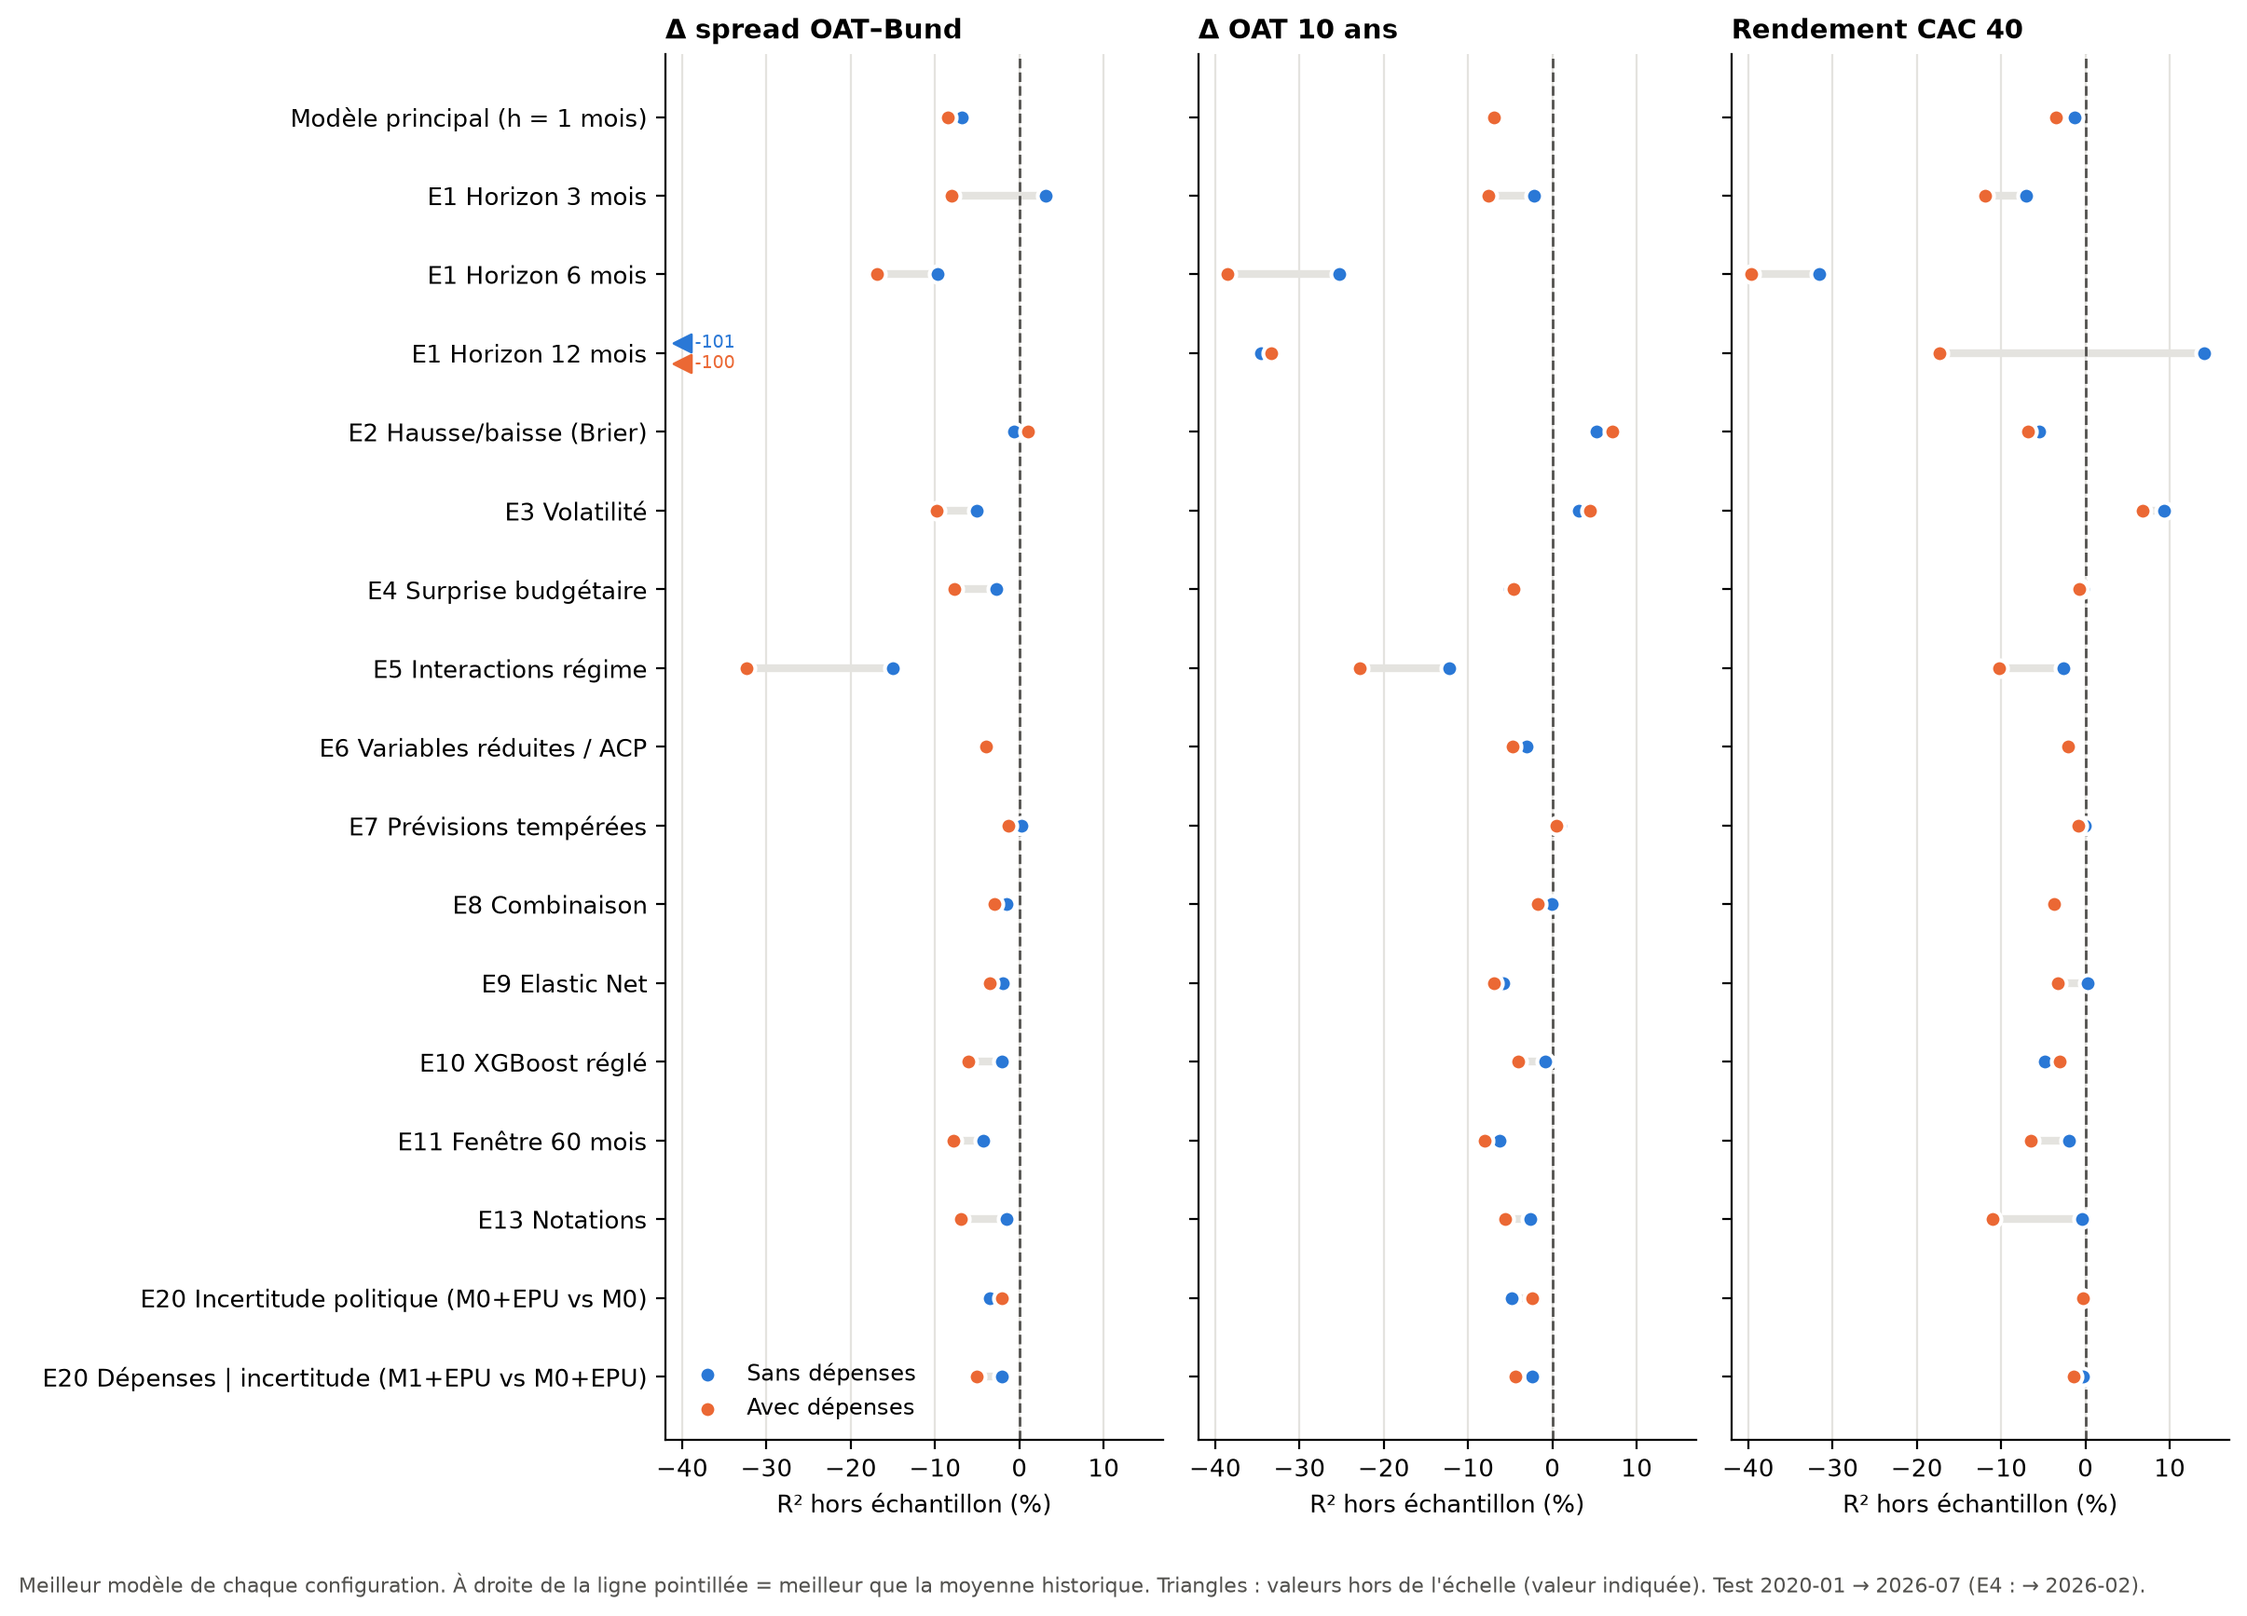
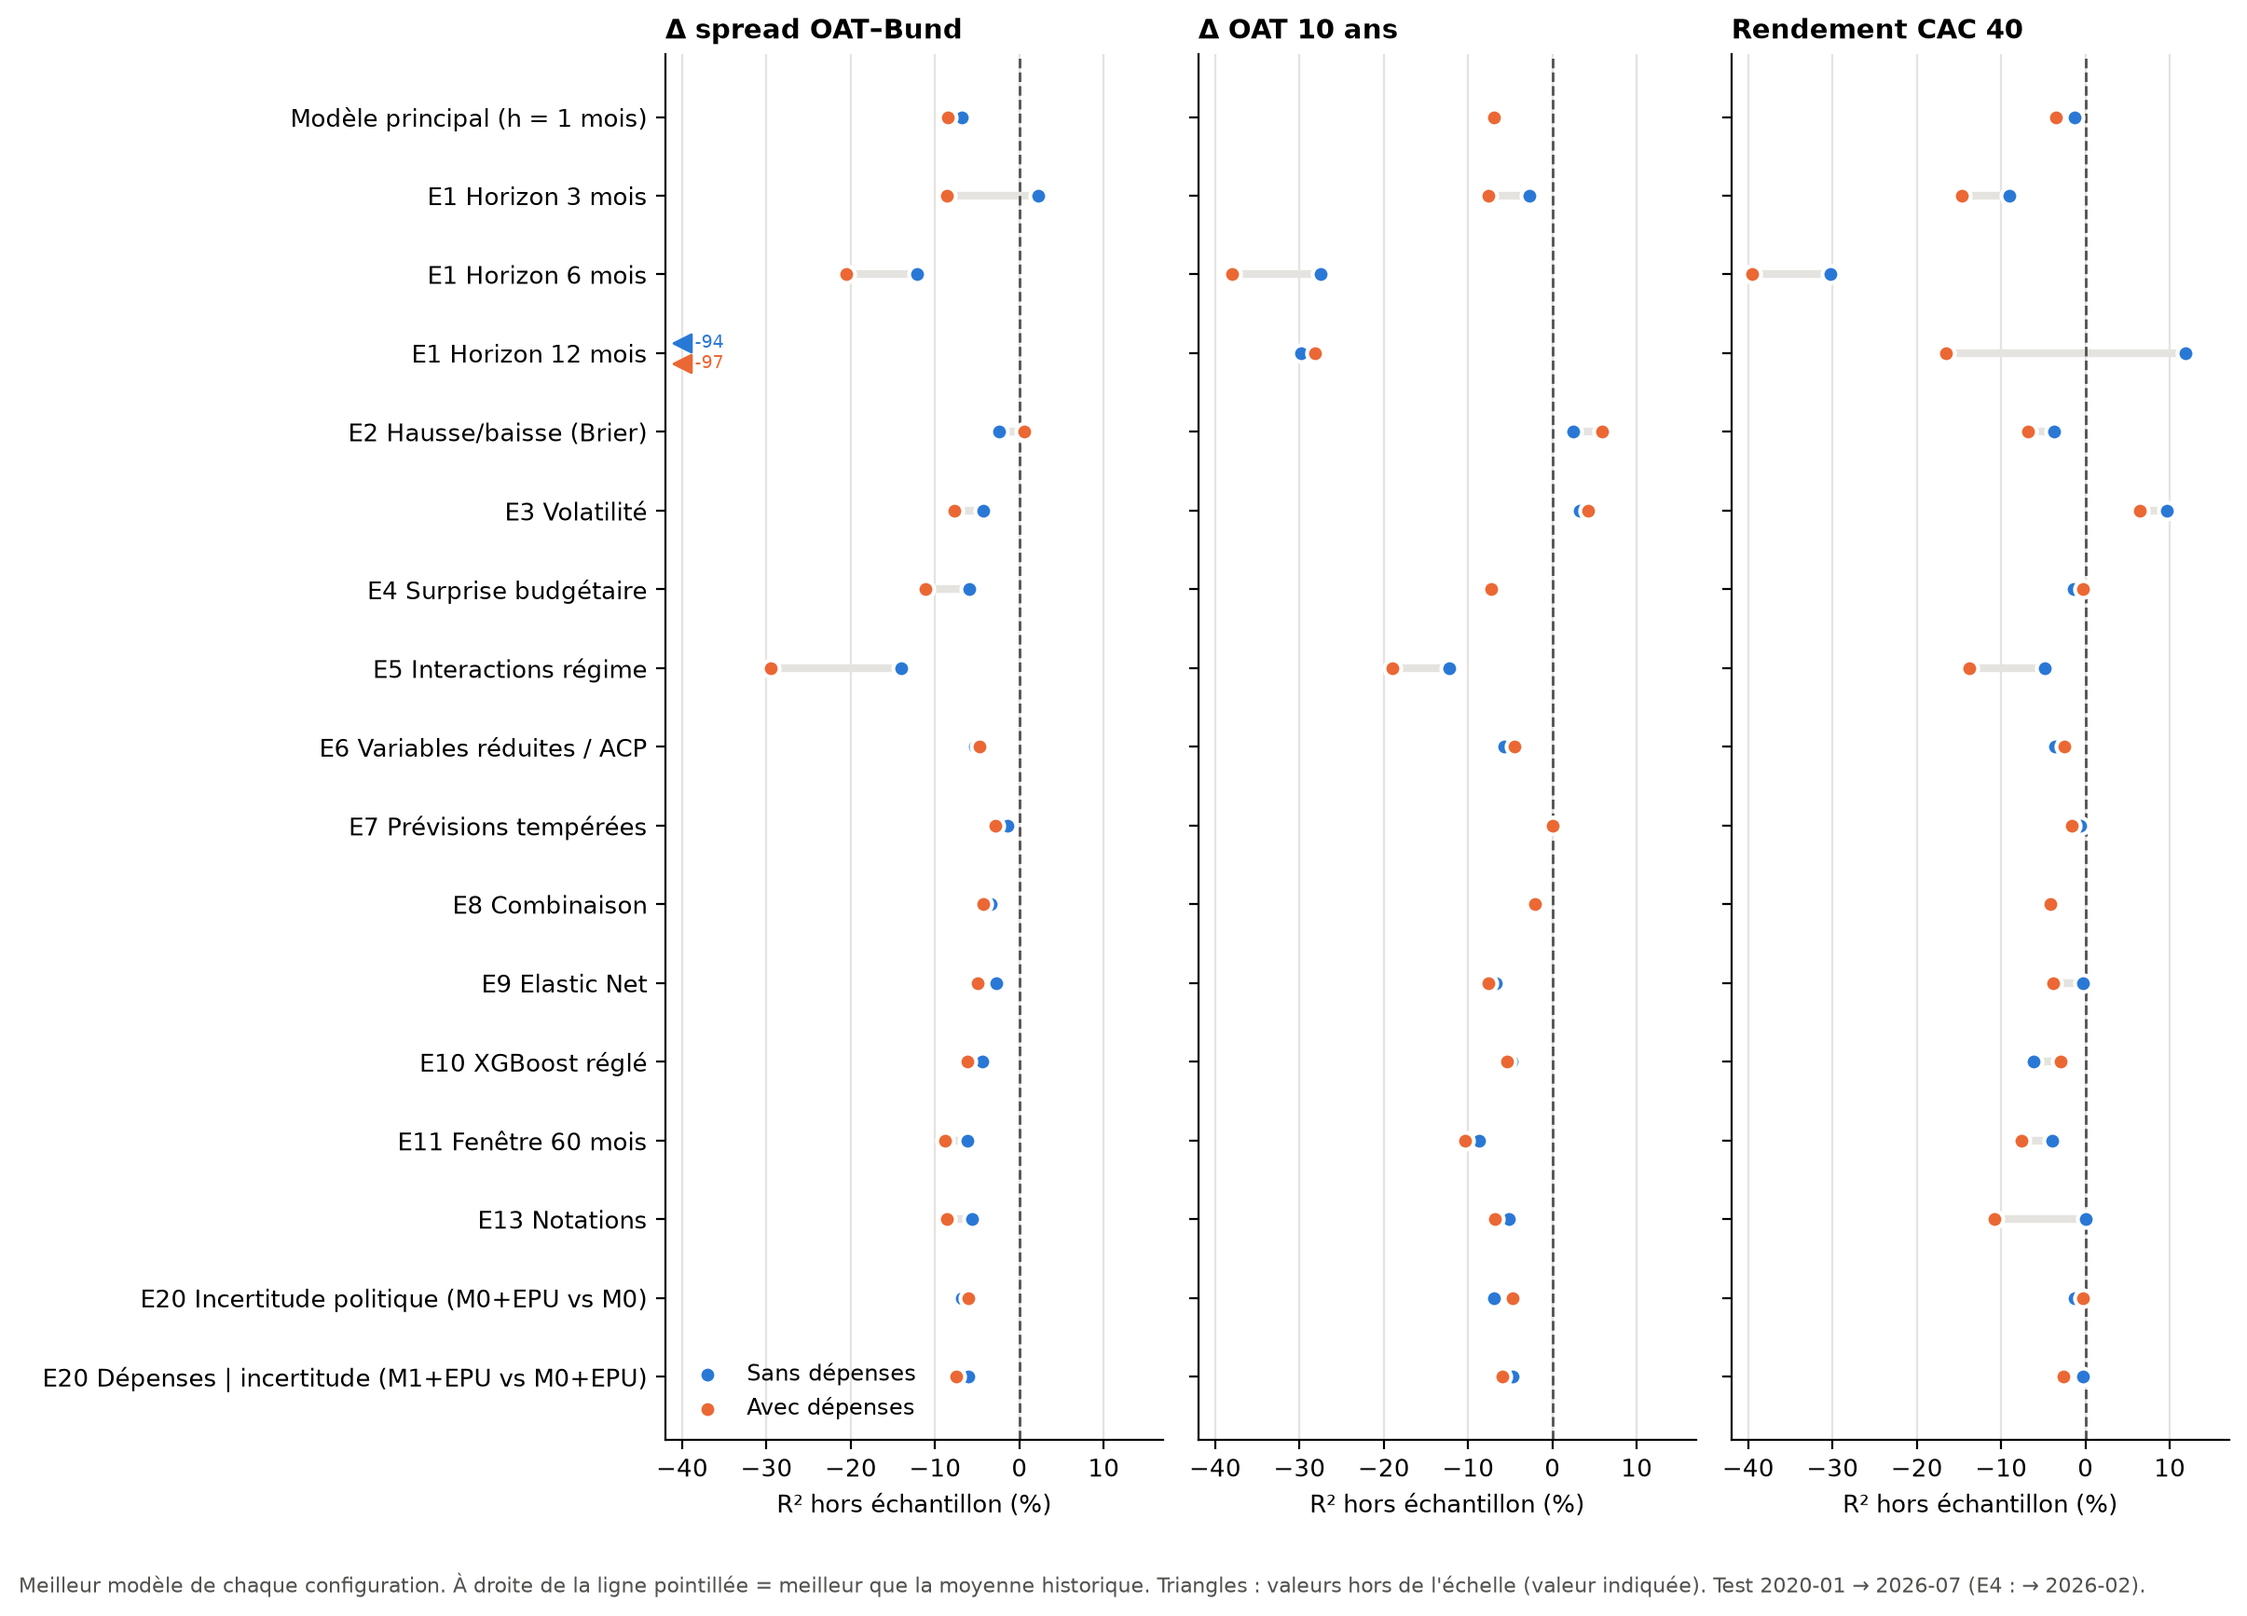
06/07 : correction BH et synthèse recalculées sur l'ensemble des extensions ; ext_significatifs.csv
Claude-Session: https://claude.ai/code/session_01FvHLKpyF4QTm7AqMeuLr1c

diff --git a/src/07_extensions_summary.py b/src/07_extensions_summary.py
@@ -10,7 +10,7 @@ donné : c'est la référence exigeante (R² contre la moyenne = 90-97 % sur le 
 marche aléatoire).
 Entrées : results/tables/models_metrics.csv, results/tables/ext_summary.csv
 Sorties : results/figures/fig3_5_extensions.png (3 cibles françaises), results/figures/fig3_6_extensions_autres.png
-          (panel et actions), results/tables/ext_synthese.csv
+          (panel et actions), results/tables/ext_synthese.csv, results/tables/ext_significatifs.csv
 """
 import re
 
@@ -114,7 +114,28 @@ def dot_panel(ax, d, y, xlim, colors=(("sans", BLUE, "Sans dépenses", -0.13), (
     ax.grid(axis="x", color=GRID)
 
 
+def significatifs():
+    """Comparaisons dont la p-value brute est < 0,05 ou dont la p-value corrigée (BH, 10 %) est < 0,10.
+    Colonnes utiles pour juger : le modèle avec dépenses bat-il la moyenne (R² > 0) ? bat-il la version sans dépenses ?"""
+    s = pd.read_csv("results/tables/ext_summary.csv")
+    s = s[~s.extension.str.startswith("E12") & ~s.extension.str.contains("hors correction")].copy()
+    s["sans"], s["avec"] = first_col(s, XCOL["sans"]), first_col(s, XCOL["avec"])
+    s["p_brute_lt_005"] = s.p_avec_meilleur < 0.05
+    s["p_BH_lt_010"] = s.p_BH < 0.10
+    s["avec_bat_moyenne"] = s.avec > 0
+    s["avec_bat_sans"] = s.avec > s.sans
+    keep = s[s.p_brute_lt_005 | s.p_BH_lt_010]
+    cols = ["extension", "cible", "comparaison", "n_test", "sans", "avec", "p_avec_meilleur", "p_BH", "p_brute_lt_005",
+            "p_BH_lt_010", "avec_bat_moyenne", "avec_bat_sans"]
+    keep[cols].sort_values("p_avec_meilleur").round(3).to_csv("results/tables/ext_significatifs.csv", index=False)
+    print(f"Comparaisons dans la correction BH : {int(s.p_BH.notna().sum())} ; p brutes < 0,05 : "
+          f"{int(s.p_brute_lt_005.sum())} (attendu par hasard : {0.05 * s.p_BH.notna().sum():.0f}) ; "
+          f"significatives après BH : {int(s.p_BH_lt_010.sum())}")
+    return keep
+
+
 def main():
+    significatifs()
     syn, order, other_keys = build()
     out = syn.sort_values(["ordre", "cible"])[["cle", "cible", "libelle", "sans", "avec", "mrw_sans", "mrw_avec",
                                                  "p_min_BH", "n_comparaisons", "ordre"]]

diff --git a/etapes/19_bh_et_synthese_finale.md b/etapes/19_bh_et_synthese_finale.md
@@ -1,5 +1,7 @@
 # Étape 19 — Correction BH et synthèse finales
 
+**Statut : ✅ fait.**
+
 **Dépend de** : 12, 16, 17, 18.
 
 ## Actions
@@ -9,11 +11,19 @@
 4. Produire `results/tables/ext_significatifs.csv` : liste automatique des « p brutes < 0,05 » et des « p_BH < 0,10 », avec `R2oos_sans`, `R2oos_avec` (permet de voir si le modèle avec dépenses bat la moyenne).
 
 ## Validation
-- [ ] BH indépendant = `p_BH` du script (écart < 1e-9).
-- [ ] Nombre total de comparaisons testées affiché et reporté (ancien : 168).
-- [ ] Toutes les extensions attendues sont présentes (test de l'étape 13).
-- [ ] Figure régénérée et lisible (E15-E20 incluses).
-- [ ] Aucun `E*.csv` de `results/tables/extensions/` ne date d'avant la relance (sauf E15-E18, volontairement non relancés et vérifiés inchangés).
+- [x] BH indépendant = `p_BH` du script (écart < 1e-9).
+- [x] Nombre total de comparaisons testées affiché et reporté (ancien : 168).
+- [x] Toutes les extensions attendues sont présentes (test de l'étape 13).
+- [x] Figure régénérée et lisible (E15-E20 incluses).
+- [x] Aucun `E*.csv` de `results/tables/extensions/` ne date d'avant la relance (sauf E15-E18, volontairement non relancés et vérifiés inchangés).
 
 ## Commit
 `06/07 : correction BH et synthèse recalculées sur l'ensemble des extensions`
+
+## Résultat (29/09)
+- `06_extensions.py resume` puis `07_extensions_summary.py` (qui écrit maintenant aussi `results/tables/ext_significatifs.csv`).
+- **168 comparaisons** dans la correction BH (E12 et ventilations exclues), **0 significative** (10 %). p brutes < 0,05 : **6** (attendu par hasard : 8). BH recalculé indépendamment avec `statsmodels.multipletests` : 168 comparaisons, 0 rejet, écart max 4e-4 (arrondi à 3 décimales des p-values enregistrées).
+- p_BH = 0,999 pour les 6 cas : avec beaucoup de p-values proches de 1 (test unilatéral « avec dépenses meilleur »), la correction BH ramène toutes les p corrigées à ≈ 0,999.
+- Les 6 p brutes < 0,05 sont toutes des cas où le modèle **avec** dépenses reste **sous la moyenne historique** (R² avec dépenses < 0) et fait moins mal que la version sans : E19 défense h = 3 XGBoost (p 0,008 ; R² −53 → −20 %), E1 spread h = 12 XGBoost (0,013), E11 CAC 40 XGBoost (0,024), E1 CAC 40 h = 6 XGBoost (0,027), E17 RF (0,038), E15 XGBoost (0,047).
+- Fichiers E15-E18 non relancés (vérifiés inchangés à l'étape 18) ; E1-E13, E19, E20 relancés aux étapes 16-18.
+- `verifications.py` 62/62 ; figures `fig3_5` et `fig3_6` régénérées et vérifiées visuellement.

diff --git a/etapes/README.md b/etapes/README.md
@@ -36,7 +36,7 @@ Environnement : `. .venv/bin/activate` (étape 00).
 | 16 ✅ | `16_relance_06_rapides.md` | E1-E9, E11-E13 | ~20 min |
 | 17 ✅ | `17_relance_06_e10.md` | E10 (XGBoost réglé) | ~15 min |
 | 18 ✅ | `18_relance_14_e19_e20.md` | E19 **et** E20 (Ridge change) | ~5 min |
-| 19 | `19_bh_et_synthese_finale.md` | Correction BH + synthèse | 1 min |
+| 19 ✅ | `19_bh_et_synthese_finale.md` | Correction BH + synthèse | 1 min |
 | 20 ✅ | `20_panel_11_conditionnel.md` | Sans objet (0 % à la borne, mesuré étape 02) | 0 |
 | 21 | `21_reproductibilite.md` | Versions figées, gel des données, `run_all.sh` | — |
 | 22 | `22_regression_finale.md` | Relance complète, deux fois, + CLAUDE.md aligné | ~2 h |
